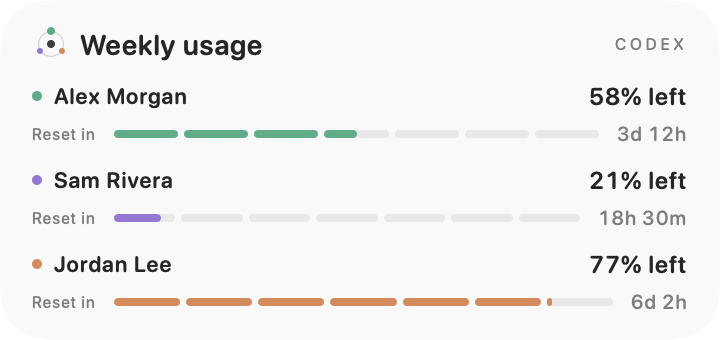
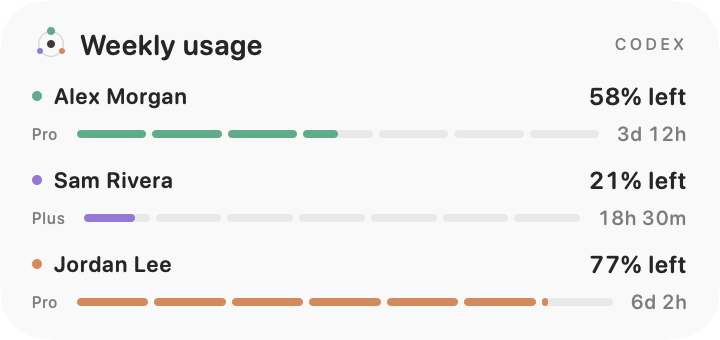
Refine widget account indicators and release version formatting

diff --git a/CodexUsageViewerWidget/CodexUsageViewerWidgetContent.swift b/CodexUsageViewerWidget/CodexUsageViewerWidgetContent.swift
@@ -68,14 +68,26 @@ struct CodexUsageViewerWidgetContent: View {
     private func compactAccount(_ account: AccountSnapshot, index: Int) -> some View {
         let state = account.weeklyUsage(at: referenceDate)
         let reset = state.window.flatMap { WeeklyResetProgress(window: $0, at: referenceDate) }
+        let isLoggedIn = snapshot.isLocalAccount(account, at: referenceDate)
+        let plan = account.plan?.trimmingCharacters(in: .whitespacesAndNewlines)
+        let subscription = plan.flatMap { $0.isEmpty ? nil : $0.capitalized } ?? "Unknown plan"
+        let resetDescription = reset.map { "Reset in \($0.countdown), out of seven days" } ?? "Reset time not reported"
         return VStack(alignment: .leading, spacing: isSmall ? 4 : 5) {
             HStack(spacing: isSmall ? 4 : 6) {
-                accountDot(index, size: isSmall ? 4 : 5)
+                if isSmall && isLoggedIn {
+                    Image(systemName: "desktopcomputer")
+                        .font(.system(size: 8, weight: .medium))
+                        .foregroundStyle(accent(index))
+                        .widgetAccentable()
+                        .accessibilityLabel("Logged In")
+                } else {
+                    accountDot(index, size: isSmall ? 4 : 5)
+                }
                 Text(account.displayName)
                     .font(.system(size: isSmall ? 10 : 11, weight: .semibold))
                     .lineLimit(1)
                     .truncationMode(.tail)
-                if !isSmall, snapshot.isLocalAccount(account, at: referenceDate) {
+                if !isSmall && isLoggedIn {
                     loggedInBadge
                 }
                 Spacer(minLength: 2)
@@ -93,9 +105,10 @@ struct CodexUsageViewerWidgetContent: View {
             if let window = state.window {
                 HStack(spacing: isSmall ? 6 : 9) {
                     if !isSmall {
-                        Text("Reset in")
+                        Text(subscription)
                             .font(.system(size: 8, weight: .medium))
                             .foregroundStyle(.secondary)
+                            .fixedSize()
                     }
                     resetTrack(reset, color: accent(index), height: isSmall ? 3 : 4)
                     HStack(spacing: 2) {
@@ -112,7 +125,7 @@ struct CodexUsageViewerWidgetContent: View {
                     .fixedSize()
                 }
                 .accessibilityElement(children: .ignore)
-                .accessibilityLabel(reset.map { "Reset in \($0.countdown), out of seven days" } ?? "Reset time not reported")
+                .accessibilityLabel(isSmall ? resetDescription : "\(subscription) subscription. \(resetDescription)")
                 .accessibilityValue("\(window.remainingPercent) percent weekly usage remaining")
             } else {
                 Text(state.status ?? "Usage unknown")

diff --git a/scripts/render_widgets.swift b/scripts/render_widgets.swift
@@ -79,7 +79,7 @@ struct RenderWidgets {
         - `connected`: three synthetic accounts reporting 58%, 21%, and 77% weekly usage remaining, with 3d12h, 18h30m, and 6d2h until reset. The third account reports weekly usage in its primary slot.
         - `empty`: three unconnected accounts; no usage values are invented.
         - `attention`: the first account is stale, the second has an elapsed weekly reset, and the third needs sign-in. No current allowance is invented.
-        - `local-match`: synthetic connected accounts with a fresh matching local identity and a long full name; second account has a session quota but no weekly window, and third has no reset timestamp. The first visible badge reads `Logged In` in medium/large.
+        - `local-match`: synthetic connected accounts with a fresh matching local identity and a long full name; second account has a session quota but no weekly window, and third has no reset timestamp. The first account shows a computer icon in small and a `Logged In` badge in medium/large. Medium places the subscription beside the reset bar.
 
         Re-run the script after changing shared styles or widget content. Output images and this file are generated under the ignored `build/visuals/` directory.
         """

diff --git a/Tests/UI/CodexUsageViewerUITests.swift b/Tests/UI/CodexUsageViewerUITests.swift
@@ -96,7 +96,7 @@ final class CodexUsageViewerUITests: XCTestCase {
         defer { app.terminate() }
         let version = app.staticTexts["codexusageviewer.version"]
         let versionText = visibleText(version)
-        XCTAssertTrue(versionText.hasPrefix("Version 1.0-"))
+        XCTAssertTrue(versionText == "Version 1.0" || versionText.hasPrefix("Version 1.0-"))
         for text in ["CODEX USAGE, IN ONE PLACE", "A little more headspace.", "Three accounts. A clear view of what’s left.", "YOUR ACCOUNTS"] {
             XCTAssertFalse(app.staticTexts[text].exists)
         }

diff --git a/scripts/test_version.py b/scripts/test_version.py
@@ -35,7 +35,7 @@ class VersionTests(unittest.TestCase):
 
     def test_release_and_following_commits(self):
         self.git('tag', '-a', '1.0', '-m', 'Release 1.0')
-        self.assertEqual(version.version_info(self.root)['display'], '1.0-0')
+        self.assertEqual(version.version_info(self.root)['display'], '1.0')
         self.commit()
         self.commit()
         self.assertEqual(version.version_info(self.root)['display'], '1.0-2')
@@ -43,7 +43,7 @@ class VersionTests(unittest.TestCase):
         self.commit()
         self.assertEqual(version.version_info(self.root)['display'], '1.1-3')
         self.git('tag', '-a', '1.1', '-m', 'Release 1.1')
-        self.assertEqual(version.version_info(self.root)['display'], '1.1-0')
+        self.assertEqual(version.version_info(self.root)['display'], '1.1')
 
     def test_unrelated_and_non_release_tags_do_not_reset_count(self):
         self.git('tag', '1.0')
@@ -71,8 +71,13 @@ class VersionTests(unittest.TestCase):
         with (bundle / 'Contents/Info.plist').open('rb') as handle:
             plist = plistlib.load(handle)
         self.assertEqual(plist['CFBundleShortVersionString'], '1.0')
-        self.assertEqual(plist['CodexUsageViewerDisplayVersion'], '1.0-0')
+        self.assertEqual(plist['CodexUsageViewerDisplayVersion'], '1.0')
         self.assertEqual(json.loads((bundle / 'Contents/Resources/BuildVersion.json').read_text()), info)
+
+    def test_version_change_at_old_tag_is_not_a_release(self):
+        self.git('tag', '1.0')
+        (self.root / 'VERSION').write_text('1.1\n')
+        self.assertEqual(version.version_info(self.root)['display'], '1.1-0')
 
 
 if __name__ == '__main__':

diff --git a/scripts/release.py b/scripts/release.py
@@ -39,14 +39,14 @@ def main():
         if git(ROOT, 'rev-parse', f'{args.version}^{{commit}}') != git(ROOT, 'rev-parse', 'HEAD'):
             parser.error('release tag already points to a different commit')
     else:
-        # The tag precedes the build so released app versions end in -0.
+        # The tag precedes the build so releases display the bare version.
         run('git', 'tag', '-a', args.version, '-m', f'Release {args.version}')
     run('python3', 'scripts/test_version.py')
     run('swift', 'test')
     run('./scripts/build.sh', 'ARCHS=arm64 x86_64', 'ONLY_ACTIVE_ARCH=NO')
     app = ROOT / 'build/Build/Products/Release/Codex Usage Viewer.app'
     info = json.loads((app / 'Contents/Resources/BuildVersion.json').read_text())
-    if info['display'] != f'{args.version}-0' or info['commit'] != git(ROOT, 'rev-parse', 'HEAD'):
+    if info['display'] != args.version or info['commit'] != git(ROOT, 'rev-parse', 'HEAD'):
         raise RuntimeError('built version does not match the release tag')
     run('codesign', '--verify', '--deep', '--strict', str(app))
     for bundle in [app, *app.glob('Contents/PlugIns/*.appex')]:

diff --git a/scripts/version.py b/scripts/version.py
@@ -27,7 +27,8 @@ def version_info(root=ROOT):
             args += ["--match", candidate]
         tag = git(root, *args)
     count = int(git(root, "rev-list", "--count", f"{tag}..HEAD" if tag else "HEAD"))
-    return {"base": base, "display": f"{base}-{count}", "commitsSinceRelease": count,
+    display = base if tag == base and count == 0 else f"{base}-{count}"
+    return {"base": base, "display": display, "commitsSinceRelease": count,
             "releaseTag": tag, "commit": git(root, "rev-parse", "HEAD"),
             "build": str(int(git(root, "rev-list", "--count", "HEAD")))}
 

diff --git a/README.md b/README.md
@@ -14,6 +14,7 @@ Codex Usage Viewer is a native macOS 27 app with a Liquid Glass interface and de
 - A **Logged In** badge identifies the account currently used by local Codex.
 - Remaining usage and window labels taken from Codex’s account data.
 - Small, medium, and large widgets showing all three accounts, weekly usage remaining, and a seven-day reset bar with a numeric countdown.
+- Medium widgets show each account's subscription beside the reset bar. Small widgets mark the local Codex account with a computer icon.
 - Subscription type remains visible alongside the **Logged In** badge.
 - No menu bar tray icon. The main window and standard application Quit command show the build version.
 - Clear disconnected, unavailable, and out-of-date states. A reset time passing never proves that an allowance has recovered.
@@ -56,7 +57,7 @@ Download the signed, notarized app from [GitHub Releases](https://github.com/sch
 
 ## Versions and releases
 
-`VERSION` contains the current release number. Every Xcode build, including builds from the IDE, calculates `<current version>-<commits since the nearest reachable numeric release tag>`. Release **1.0** is tagged `1.0` and displays **1.0-0**; the next commit displays **1.0-1**. The app and widget embed the same version metadata. Apple bundle fields remain numeric.
+`VERSION` contains the current release number. Every Xcode build, including builds from the IDE, uses the bare version at its matching release tag, and `<current version>-<commits since the nearest reachable numeric release tag>` for subsequent development builds. Release **1.0** is tagged `1.0` and displays **1.0**; the next commit displays **1.0-1**. The app and widget embed the same version metadata. Apple bundle fields remain numeric.
 
 To publish a release, update `VERSION` and its notes, validate the UI, and commit the changes. Then run:
 

diff --git a/AGENTS.md b/AGENTS.md
@@ -9,6 +9,6 @@ Native macOS 27 SwiftUI app and WidgetKit extension for three Codex accounts.
 - No inference requests are needed to read limits. Use the documented Codex app-server account methods.
 - Verify with Swift tests, a native Xcode build, and UI interaction/visual checks. State any live-account or widget-host checks that could not run.
 - Display full account names, with email fallback. Read name claims only from app-owned logins and bind them to the official account email; never log tokens or read the normal Codex login for names.
-- Widgets show only weekly usage and time until reset, with a seven-day time bar and numeric countdown. Keep subscription type visible beside the Logged In badge in the app.
+- Widgets show only weekly usage and time until reset, with a seven-day time bar and numeric countdown. Medium widgets show the subscription beside the bar; small widgets replace the locally logged-in account's dot with a computer icon. Keep subscription type visible beside the Logged In badge in the app.
 - Do not add a menu bar tray icon.
-- Visible versions use VERSION plus the number of commits since the nearest reachable numeric release tag. Releases create annotated numeric tags before building, so release 1.0 displays 1.0-0. Use scripts/release.py; never move a published release tag.
+- Release builds show the bare VERSION (for example 1.0). Development builds append the number of commits since the nearest reachable numeric release tag (for example 1.0-1). Releases create annotated numeric tags before building, so release 1.0 displays 1.0. Use scripts/release.py; never move a published release tag.

diff --git a/docs/releases/1.0.md b/docs/releases/1.0.md
@@ -4,8 +4,10 @@ Codex Usage Viewer 1.0 is a native macOS 27 app for viewing Codex limits across 
 - A compact Liquid Glass dashboard with session and weekly limits.
 - Weekly-only desktop widgets with seven-day reset bars and numeric countdowns.
 - No menu bar tray icon.
-- Version **1.0-0** in the main window and standard Quit command; subsequent builds count commits since the release tag.
+- Version **1.0** in the main window and standard Quit command; subsequent builds count commits since the release tag.
 
 Requires macOS 27 and a separately installed Codex CLI. Sign in to each account using its matching Chrome profile. The app must remain running to fetch updates; macOS controls widget refresh timing.
 
 Download the ZIP, move **Codex Usage Viewer.app** to Applications, and open it. The app is signed, notarized, and stapled. `SHA256SUMS.txt` contains the download checksum.
+
+The download's version metadata was corrected from `1.0-0` to `1.0` and the app was signed and notarized again. The release source tag and executable code are unchanged.
